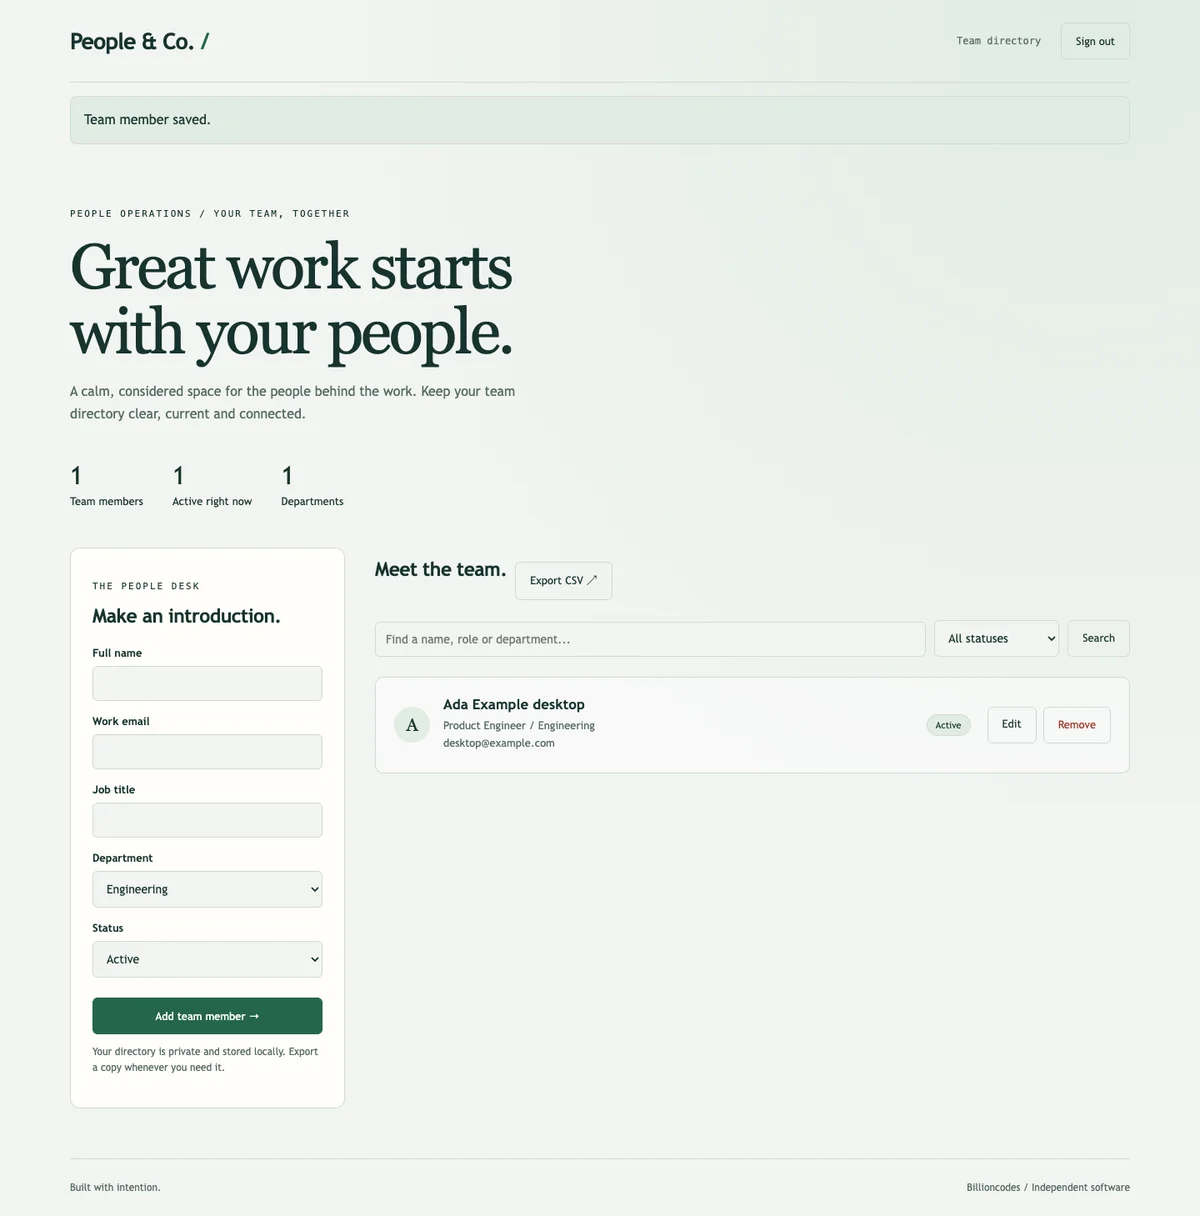
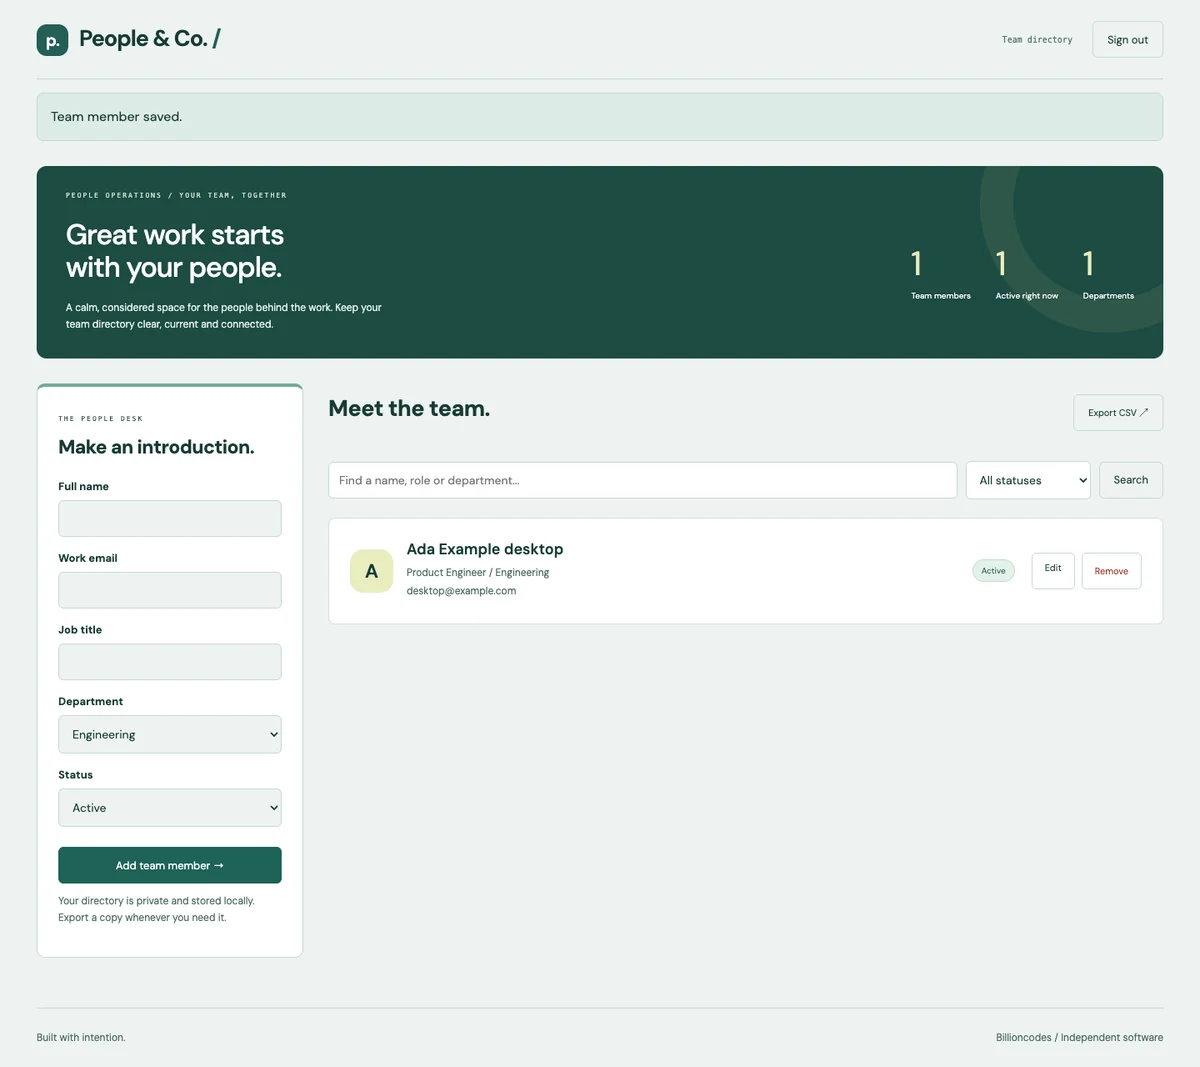
Give the workspace a distinct task-focused visual identity

diff --git a/public/style.css b/public/style.css
@@ -377,3 +377,10 @@ footer {
     min-width: 0;
   }
 }
+
+/* People operations: a compact directory with a dedicated editing rail. */
+@font-face{font-family:DM;src:url('/fonts/dm.woff2');font-weight:100 1000;font-display:swap}
+:root{--paper:#edf3f1;--ink:#183a37;--muted:#4e6c66;--line:#c6d9d1;--accent:#1f6257;--tint:#dcece6}
+body{font-family:DM,sans-serif;background:#edf3f1}.shell{max-width:1500px;padding:0 44px}header{padding:25px 0}.brand{font-weight:650;font-size:27px}.brand:before{content:"p.";display:inline-grid;place-items:center;width:38px;height:38px;background:#245e55;color:white;border-radius:12px;margin-right:13px;font-size:20px}.edition{font-size:10px}
+.hero{margin:30px 0;padding:30px 35px;background:#1d4b43;color:#fff;border-radius:12px;display:grid;grid-template-columns:1fr 1fr;gap:10px 30px;position:relative;overflow:hidden}.hero:after{content:"";position:absolute;width:230px;height:230px;border:40px solid #fff08f12;border-radius:50%;right:-90px;top:-110px;pointer-events:none}.hero .eyebrow{font-size:8px;margin:0;grid-column:1/-1;color:#d0e8d0}.hero h1{font:500 34px/1.15 DM;letter-spacing:-1px;margin:10px 0}.hero>p:not(.eyebrow){color:#e4f2e8;font-size:12px;max-width:400px;grid-column:1;margin:0}.stats{grid-column:2;grid-row:2/4;margin:0;align-items:center;justify-content:end;gap:30px}.stats strong{font-size:40px;color:#e9edbe}.stats p{font-size:10px}.workspace{grid-template-columns:320px minmax(0,1fr);gap:30px}.panel{border-radius:10px;background:#fff;padding:25px;border-top:4px solid #72aa95}.panel h2{font-size:23px}.panel .eyebrow{font-size:8px}.record{background:#fff;border:1px solid #d2dfd9;border-radius:8px;padding:25px}.avatar{width:52px;height:52px;border-radius:16px;font:600 23px DM;background:#e9edbe}.badge{background:#e2f2e9;color:#245b44;font-size:10px}.record h3{font-size:18px;font-weight:600}.record p{font-size:12px}.record .actions .button,.record .actions button{font-size:11px;padding:10px 15px}.toolbar h2{font-size:27px;flex:1}.toolbar{align-items:center;margin-bottom:22px}.toolbar .button{font-size:11px}.toolbar input,.toolbar select{background:#fff}input,select,button,.button{font-family:DM}.login{margin:40px auto 80px}.empty{background:#f8fbf8}.empty h3{font:400 27px DM}
+@media(max-width:950px){.shell{padding:0 22px}.hero{grid-template-columns:1fr;padding:25px}.hero h1{font-size:32px}.stats{grid-column:1;grid-row:auto;justify-content:start;gap:35px;margin-top:15px}.stats strong{font-size:30px}.workspace{grid-template-columns:1fr}.panel{padding:25px}.hero>p:not(.eyebrow){font-size:12px}.toolbar{align-items:stretch}.toolbar h2{font-size:25px}.record{padding:22px}.record .actions{margin-left:0}}

diff --git a/public/index.php b/public/index.php
@@ -1,6 +1,9 @@
 <?php
 declare(strict_types=1);
-if (PHP_SAPI === 'cli-server' && parse_url($_SERVER['REQUEST_URI'], PHP_URL_PATH) === '/style.css') return false;
+if (PHP_SAPI === 'cli-server') {
+    $asset = parse_url($_SERVER['REQUEST_URI'], PHP_URL_PATH);
+    if ($asset === '/style.css' || (is_string($asset) && preg_match('~^/fonts/[a-z]+\.woff2$~', $asset) && is_file(__DIR__ . $asset))) return false;
+}
 require dirname(__DIR__) . '/src/support.php';
 require dirname(__DIR__) . '/src/staff.php';
 boot('People & Co.', 'A little clarity. A stronger team.');
